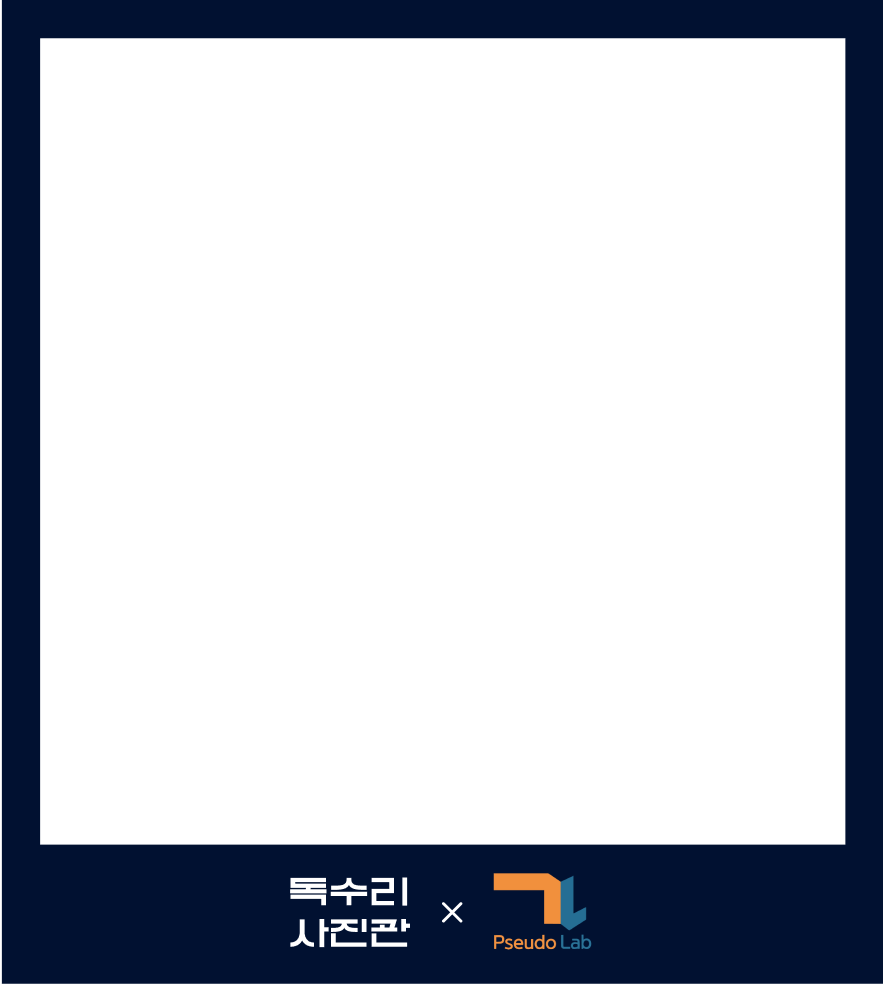
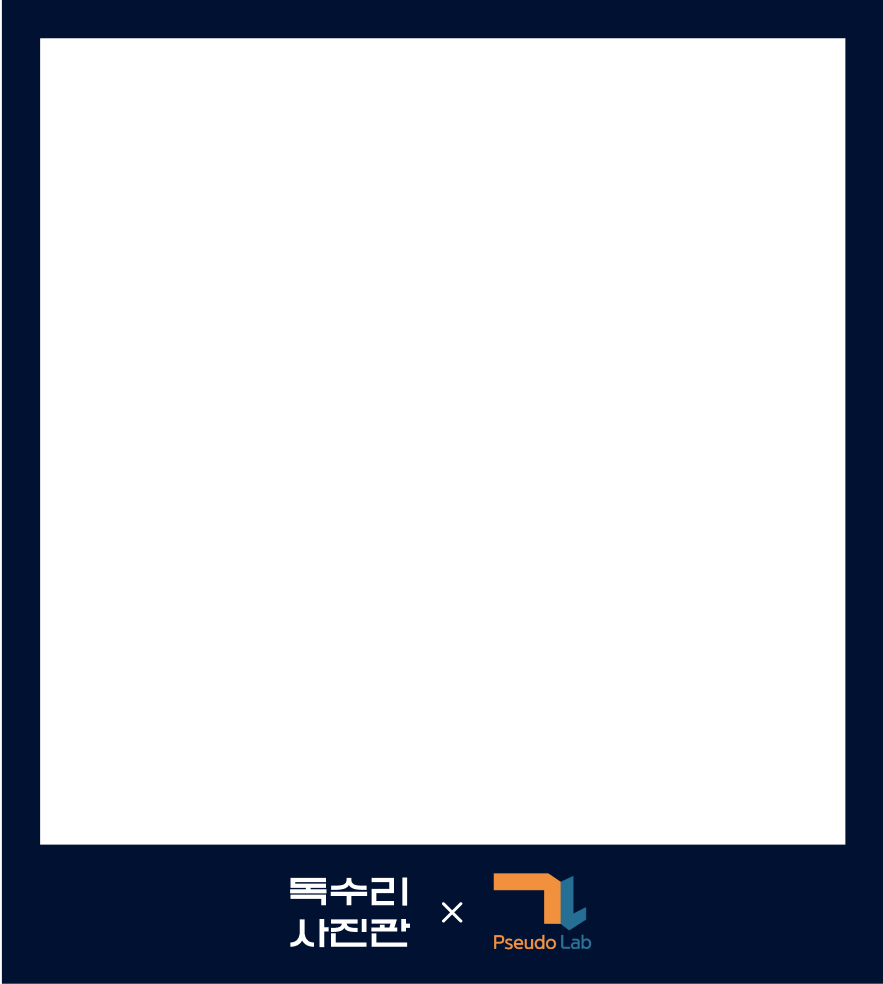
chore: remove border area in frames

Changed region(s): [[0.0, 0.8232, 1.0, 1.0]]

diff --git a/src/app/generate/components/Result/components/CompletedResult.tsx b/src/app/generate/components/Result/components/CompletedResult.tsx
@@ -19,6 +19,7 @@ const Completed = ({ imageUrl }: { imageUrl: string }) => {
     "canShare" in navigator && "share" in navigator
     // true
   ).current;
+
   const background = useMemo(() => jsUtils.getRandomArrItem(BG), []);
 
   const imageGenerationResolver = useRef<(value: null) => void>();
@@ -105,7 +106,7 @@ const Completed = ({ imageUrl }: { imageUrl: string }) => {
         IMAGE_SIZE,
         IMAGE_SIZE
       );
-      ctx.drawImage(frameImage, 0, 0, BG_WIDTH, BG_HEIGHT);
+      ctx.drawImage(frameImage, -1, -1, BG_WIDTH + 2, BG_HEIGHT + 2);
 
       canvas.toBlob((blob) => {
         if (!blob) return;
@@ -235,7 +236,7 @@ const Completed = ({ imageUrl }: { imageUrl: string }) => {
   );
 };
 
-const RATIO = 1.1156096897;
+const RATIO = 1.1159499183;
 const BORDER_RATIO = 0.04337915079;
 const BG_WIDTH = 1200;
 const BG_HEIGHT = BG_WIDTH * RATIO;
